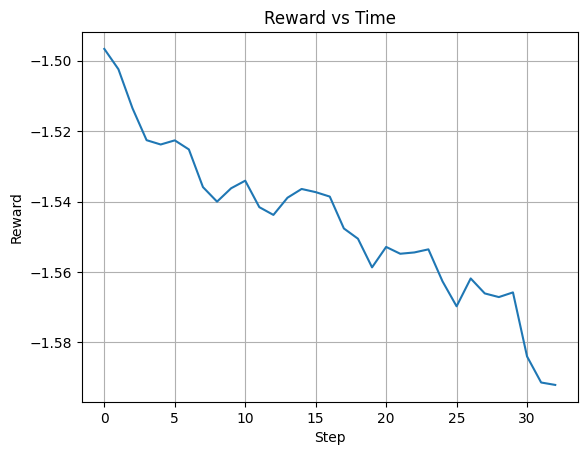
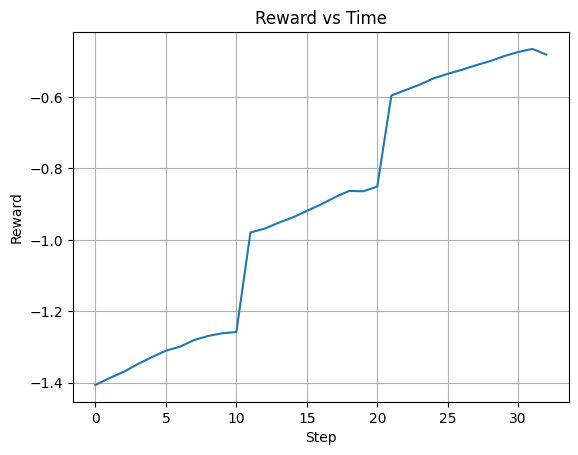
subtask corrections

diff --git a/compute_goal_embedding.py b/compute_goal_embedding.py
@@ -105,27 +105,39 @@ def embed_subtasks(
   
 # Compute the mean embedding for each subtask (column) across all videos (rows)
   num_subtasks = len(all_subgoal_frames_embs[1])
-  # print("Number of subtasks:", num_subtasks)
   subtask_means = []
 # Loop over each subtask
   subtask_means = np.mean(all_subgoal_frames_embs, axis=0)
-
   # pdb.set_trace()
   # Compute the distance vector
   dist_to_goal = []
+  per_subtask_dists = []
   # Distance between the initial embedding and the first subtask
-  dist_to_goal.append(
-      np.linalg.norm(np.stack(init_embs, axis=0) - subtask_means[0], axis=-1).mean()
+  dist = np.linalg.norm(
+      np.stack(init_embs, axis=0) - subtask_means[0], axis=-1
   )
+  dist_to_goal.append(np.mean(dist))
+  per_subtask_dists.append(dist)
+  
   # Distances between consecutive subtasks
   for i in range(1, num_subtasks):
-      dist_to_goal.append(
-          np.linalg.norm(subtask_means[i - 1] - subtask_means[i], axis=-1)
+      dist = np.linalg.norm(
+          subtask_means[i - 1] - subtask_means[i], axis=-1
       )
-
+      dist_to_goal.append(dist)
+      
+      video_dists = np.linalg.norm(
+          all_subgoal_frames_embs[:, i - 1, :] - all_subgoal_frames_embs[:, i, :], axis=1
+      )
+      per_subtask_dists.append(video_dists)
+      
   dist_to_goal = np.array(dist_to_goal)  # Convert to a NumPy array
   distance_scale = 1.0 / dist_to_goal
-  # pdb.set_trace()
+  
+  subtask_thresholds = np.array([np.percentile(dists, 80) for dists in per_subtask_dists]) * distance_scale
+  for i, dists in enumerate(per_subtask_dists):
+    print(f"Subtask {i} distance stats: min={np.min(dists)}, max={np.max(dists)}, mean={np.mean(dists)}, median={np.median(dists)}, 80th={np.percentile(dists, 80)}, 30th={np.percentile(dists, 30)}, 50th={np.percentile(dists, 50)}")
+  pdb.set_trace()
   return subtask_means, distance_scale
 
 def setup():
@@ -154,6 +166,7 @@ def main(_):
     subtask_means, distance_scale = embed_subtasks(model, downstream_loader, device, subgoal_data)
     utils.save_pickle(FLAGS.experiment_path, subtask_means, "subtask_means.pkl")
     utils.save_pickle(FLAGS.experiment_path, distance_scale, "distance_scale.pkl")
+    # utils.save_pickle(FLAGS.experiment_path, subtask_thresholds, "subtask_thresholds.pkl")
   else:
     goal_emb, distance_scale = embed(model, downstream_loader, device)
     utils.save_pickle(FLAGS.experiment_path, goal_emb, "goal_emb.pkl")

diff --git a/xirl/trainers/holdr.py b/xirl/trainers/holdr.py
@@ -2,6 +2,7 @@ import torch
 import torch.nn.functional as F
 from xirl.trainers.base import Trainer
 from typing import Dict, List, Union
+import pdb
 
 BatchType = Dict[str, Union[torch.Tensor, List[str]]]
 
@@ -34,14 +35,18 @@ class HOLDRTrainer(Trainer):
             idxs = frame_idxs[i].float()  
                    
             # Compute pairwise embedding distances
-            emb_dists = torch.cdist(emb, emb, p=2)
-            emb_dists = emb_dists / self.temperature
-
-            # Compute normalized ground-truth time distances
+            emb_dists = torch.cdist(emb, emb, p=2) / self.temperature
+            
+            # Compute ground-truth time distances considering the frame indices
             time_dists = torch.cdist(idxs.unsqueeze(1), idxs.unsqueeze(1), p=1)
-            time_dists = time_dists / time_dists.max()
-        
+            
+            # Create a mask to consider only upper triangular part of the distance matrix
+            # This is to ignore self-distances and lower triangular part
+            # We use the upper triangular part because we want to predict distances on the future frames and not
+            # considering also the past frames.
+            mask = torch.triu(torch.ones_like(time_dists), diagonal=1).bool()
+
             # Mean squared error between predicted and ground-truth distances
-            loss += F.mse_loss(emb_dists, time_dists)
+            loss += F.mse_loss(emb_dists[mask], time_dists[mask])
         loss /= B
         return loss

diff --git a/sac/replay_buffer.py b/sac/replay_buffer.py
@@ -239,8 +239,8 @@ class ReplayBufferHOLDR(ReplayBufferLearnedReward):
         self,
         subtask_means,
         distance_scale,
-        subtask_threshold=0.1,
-        subtask_cost=1.0,
+        subtask_threshold=0.4,
+        subtask_cost=2.0,
         subtask_hold_steps=3,
         **base_kwargs,
     ):
@@ -316,10 +316,10 @@ class ReplayBufferHOLDR(ReplayBufferLearnedReward):
             else:
                 reward = - (dist + shaping) / self._distance_normalizer
                 
-            if self._subtask == 1:
-                print("Subtask 1 completed, reward:", reward)
-            elif self._subtask == 2:
-                print("Subtask 2 completed, reward:", reward)
+            # if self._subtask == 1:
+            #     print("Subtask 1 completed, reward:", reward)
+            # elif self._subtask == 2:
+            #     print("Subtask 2 completed, reward:", reward)
 
             # Check if the subtask is completed
             self._check_subtask_completion(dist, reward)

diff --git a/sac/wrappers.py b/sac/wrappers.py
@@ -334,7 +334,7 @@ class HOLDRLearnedVisualReward(LearnedVisualReward):
         self,
         subtask_means,
         distance_scale,
-        subtask_threshold=0.2,
+        subtask_threshold=0.4,
         subtask_cost=2.0,
         subtask_hold_steps=3,
         **base_kwargs,
@@ -398,10 +398,10 @@ class HOLDRLearnedVisualReward(LearnedVisualReward):
         else:
             reward = - (dist + shaping) / self._distance_normalizer
             
-        if self._subtask == 1:
-                print("Subtask 1 completed, reward:", reward)
-        elif self._subtask == 2:
-                print("Subtask 2 completed, reward:", reward)
+        # if self._subtask == 1:
+        #         print("Subtask 1 completed, reward:", reward)
+        # elif self._subtask == 2:
+        #         print("Subtask 2 completed, reward:", reward)
             
         # Check if the subtask is completed
         self._check_subtask_completion(dist, reward)

diff --git a/generate_plot.py b/generate_plot.py
@@ -112,7 +112,7 @@ def cross_shortstick(savename):
   experiments = [
       Experiment(
           # Note: replace with an actual experiment path.
-          path="/tmp/xirl/rl_runs/env_name=SweepToTop-Gripper-State-Allo-TestLayout-v0_reward=learned_reward_type=holdr_mode=same_algo=holdr_uid=6d5a5b76-f0d3-4ac4-83d8-97fdf5c34a4f/0",
+          path="/tmp/xirl/rl_runs/env_name=SweepToTop-Gripper-State-Allo-TestLayout-v0_reward=learned_reward_type=holdr_mode=same_algo=holdr_uid=63d6c201-ea58-480f-884a-eb4e83131bcc/0",
           # Note: You can customize the below attributes to your liking.
           name="XIRL",
           color="tab:red",

diff --git a/base_configs/rl.py b/base_configs/rl.py
@@ -50,9 +50,9 @@ def get_config():
   config.frame_stack = 3
 
   config.reward_wrapper = ml_collections.ConfigDict()
-  config.reward_wrapper.pretrained_path = ""
+  config.reward_wrapper.pretrained_path = "/home/lucaianniello/Thesis/XIRL/results/Experiment_Results/dataset=xmagical_mode=same_algo=holdr_embodiment=gripper_uid=68e0b635-5637-4710-8498-eb2d28ead022"
   # Can be one of ['distance_to_goal', 'goal_classifier', holdr].
-  config.reward_wrapper.type = "distance_to_goal"
+  config.reward_wrapper.type = "holdr"
 
   # ================================================= #
   # Training parameters.

diff --git a/test_embedding.py b/test_embedding.py
@@ -126,7 +126,7 @@ def main(_):
     non_decreasing_reward = False
     prev_reward = 0.0
     subtask_cost = 2.0
-    subtask_threshold = 0.2
+    subtask_threshold = 0.4
     subtask_hold_steps = 3
     distance_normalizer = 5
     subtask_solved_counter = 0
